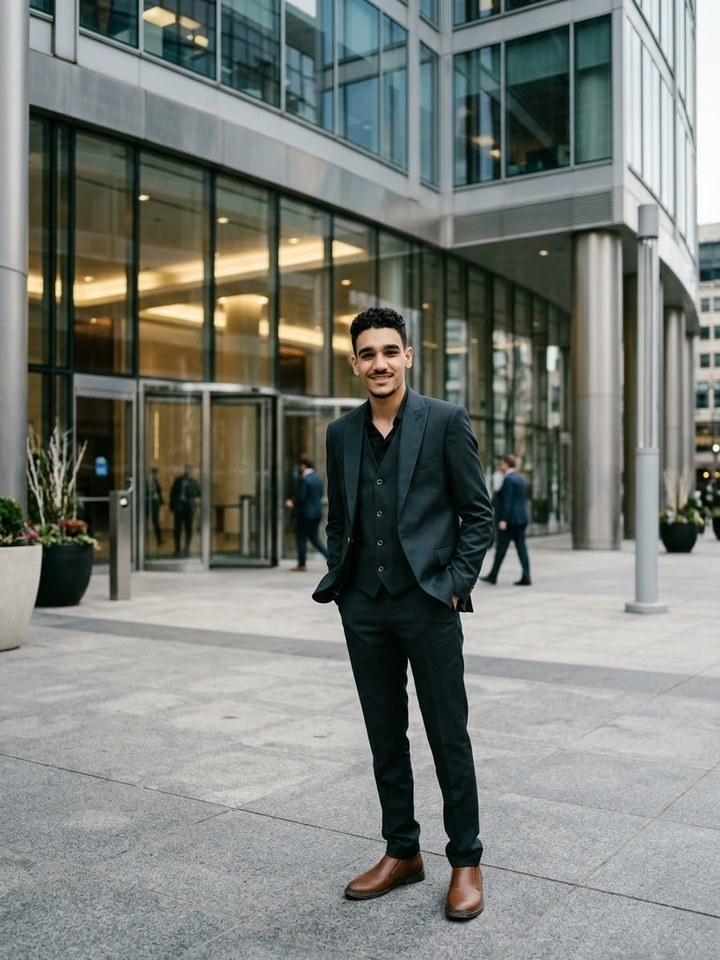
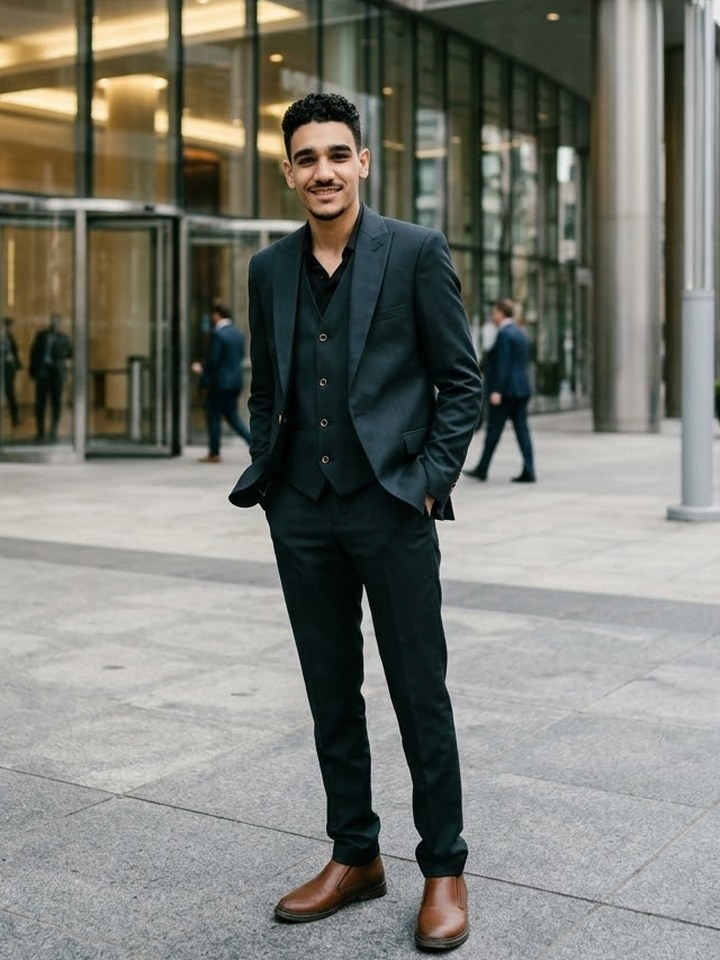
crop 20261127c

diff --git a/app/index.html b/app/index.html
@@ -1,6 +1,6 @@
 <!DOCTYPE html>
 <html lang="ar" dir="rtl">
-<head><meta http-equiv="Cache-Control" content="no-cache, no-store, must-revalidate"><meta http-equiv="Pragma" content="no-cache"><meta http-equiv="Expires" content="0"><script>(function(){var B='20261127b';try{fetch('/version.json?'+Date.now(),{cache:'no-store'}).then(function(r){return r.json()}).then(function(j){if(j.v!==B&&!/[?&]v=/.test(location.search+'')||(j.v!==B&&location.search.indexOf('v='+j.v)<0)){location.replace(location.pathname+'?v='+j.v)}}).catch(function(){})}catch(e){}})();</script>
+<head><meta http-equiv="Cache-Control" content="no-cache, no-store, must-revalidate"><meta http-equiv="Pragma" content="no-cache"><meta http-equiv="Expires" content="0"><script>(function(){var B='20261127c';try{fetch('/version.json?'+Date.now(),{cache:'no-store'}).then(function(r){return r.json()}).then(function(j){if(j.v!==B&&!/[?&]v=/.test(location.search+'')||(j.v!==B&&location.search.indexOf('v='+j.v)<0)){location.replace(location.pathname+'?v='+j.v)}}).catch(function(){})}catch(e){}})();</script>
 <meta charset="UTF-8">
 <meta name="robots" content="noindex,nofollow">
 <meta name="google-site-verification" content="ljd6nUDsgidW-Z4yNcFsUsPwY3ZZld_VHcTIZCJL6eo" />
@@ -316,7 +316,7 @@ function courseHero(cta){
 
 function instructorCard(wide){
   return `<div class="inst${wide?' inst-wide':''}"><div class="inst-in">
-    <img src="/media/instructor.jpg?v=20261127b" alt="المدرب أحمد وليد">
+    <img src="/media/instructor.jpg?v=20261127c" alt="المدرب أحمد وليد">
     <div class="inst-txt"><h3>أحمد وليد</h3>
     <div class="inst-role">مدرب فوتوشوب</div>
     <p class="inst-bio">خبرة من 4 لـ 5 سنين في التدريس والتدريب، وتدريب عملي مرتبط بمتطلبات سوق العمل. بيشرح فوتوشوب للمبتدئين من الصفر: من أساسيات البرنامج والأدوات والطبقات، لحد ما تعمل أول مشروع بنفسك.</p>

diff --git a/index.html b/index.html
@@ -1,6 +1,6 @@
 <!DOCTYPE html>
 <html lang="ar" dir="rtl">
-<head><meta http-equiv="Cache-Control" content="no-cache, no-store, must-revalidate"><meta http-equiv="Pragma" content="no-cache"><meta http-equiv="Expires" content="0"><script>(function(){var B='20261127b';try{fetch('/version.json?'+Date.now(),{cache:'no-store'}).then(function(r){return r.json()}).then(function(j){if(j.v!==B&&!/[?&]v=/.test(location.search+'')||(j.v!==B&&location.search.indexOf('v='+j.v)<0)){location.replace(location.pathname+'?v='+j.v)}}).catch(function(){})}catch(e){}})();</script>
+<head><meta http-equiv="Cache-Control" content="no-cache, no-store, must-revalidate"><meta http-equiv="Pragma" content="no-cache"><meta http-equiv="Expires" content="0"><script>(function(){var B='20261127c';try{fetch('/version.json?'+Date.now(),{cache:'no-store'}).then(function(r){return r.json()}).then(function(j){if(j.v!==B&&!/[?&]v=/.test(location.search+'')||(j.v!==B&&location.search.indexOf('v='+j.v)<0)){location.replace(location.pathname+'?v='+j.v)}}).catch(function(){})}catch(e){}})();</script>
 <meta charset="UTF-8">
 <meta name="robots" content="noindex,nofollow">
 <meta name="google-site-verification" content="ljd6nUDsgidW-Z4yNcFsUsPwY3ZZld_VHcTIZCJL6eo" />
@@ -316,7 +316,7 @@ function courseHero(cta){
 
 function instructorCard(wide){
   return `<div class="inst${wide?' inst-wide':''}"><div class="inst-in">
-    <img src="/media/instructor.jpg?v=20261127b" alt="المدرب أحمد وليد">
+    <img src="/media/instructor.jpg?v=20261127c" alt="المدرب أحمد وليد">
     <div class="inst-txt"><h3>أحمد وليد</h3>
     <div class="inst-role">مدرب فوتوشوب</div>
     <p class="inst-bio">خبرة من 4 لـ 5 سنين في التدريس والتدريب، وتدريب عملي مرتبط بمتطلبات سوق العمل. بيشرح فوتوشوب للمبتدئين من الصفر: من أساسيات البرنامج والأدوات والطبقات، لحد ما تعمل أول مشروع بنفسك.</p>

diff --git a/register/index.html b/register/index.html
@@ -1,5 +1,5 @@
 <!doctype html>
-<html lang="ar" dir="rtl"><head><meta charset="utf-8"><meta http-equiv="Cache-Control" content="no-cache, no-store, must-revalidate"><meta http-equiv="Pragma" content="no-cache"><meta http-equiv="Expires" content="0"><script>(function(){var B='20261127b';try{fetch('/version.json?'+Date.now(),{cache:'no-store'}).then(function(r){return r.json()}).then(function(j){if(j.v!==B&&!/[?&]v=/.test(location.search+'')||(j.v!==B&&location.search.indexOf('v='+j.v)<0)){location.replace(location.pathname+'?v='+j.v)}}).catch(function(){})}catch(e){}})();</script>
+<html lang="ar" dir="rtl"><head><meta charset="utf-8"><meta http-equiv="Cache-Control" content="no-cache, no-store, must-revalidate"><meta http-equiv="Pragma" content="no-cache"><meta http-equiv="Expires" content="0"><script>(function(){var B='20261127c';try{fetch('/version.json?'+Date.now(),{cache:'no-store'}).then(function(r){return r.json()}).then(function(j){if(j.v!==B&&!/[?&]v=/.test(location.search+'')||(j.v!==B&&location.search.indexOf('v='+j.v)<0)){location.replace(location.pathname+'?v='+j.v)}}).catch(function(){})}catch(e){}})();</script>
 <meta name="viewport" content="width=device-width,initial-scale=1">
 <meta name="description" content="سجّل في كورس أساسيات الفوتوشوب من الصفر مع المدرب أحمد وليد: 4 جمعات أونلاين، كل جمعة من 8 لـ 9:30 بالليل، مشروع وامتحان وشهادة إتمام. السعر 1300 جنيه.">
 <meta name="robots" content="index,follow">
